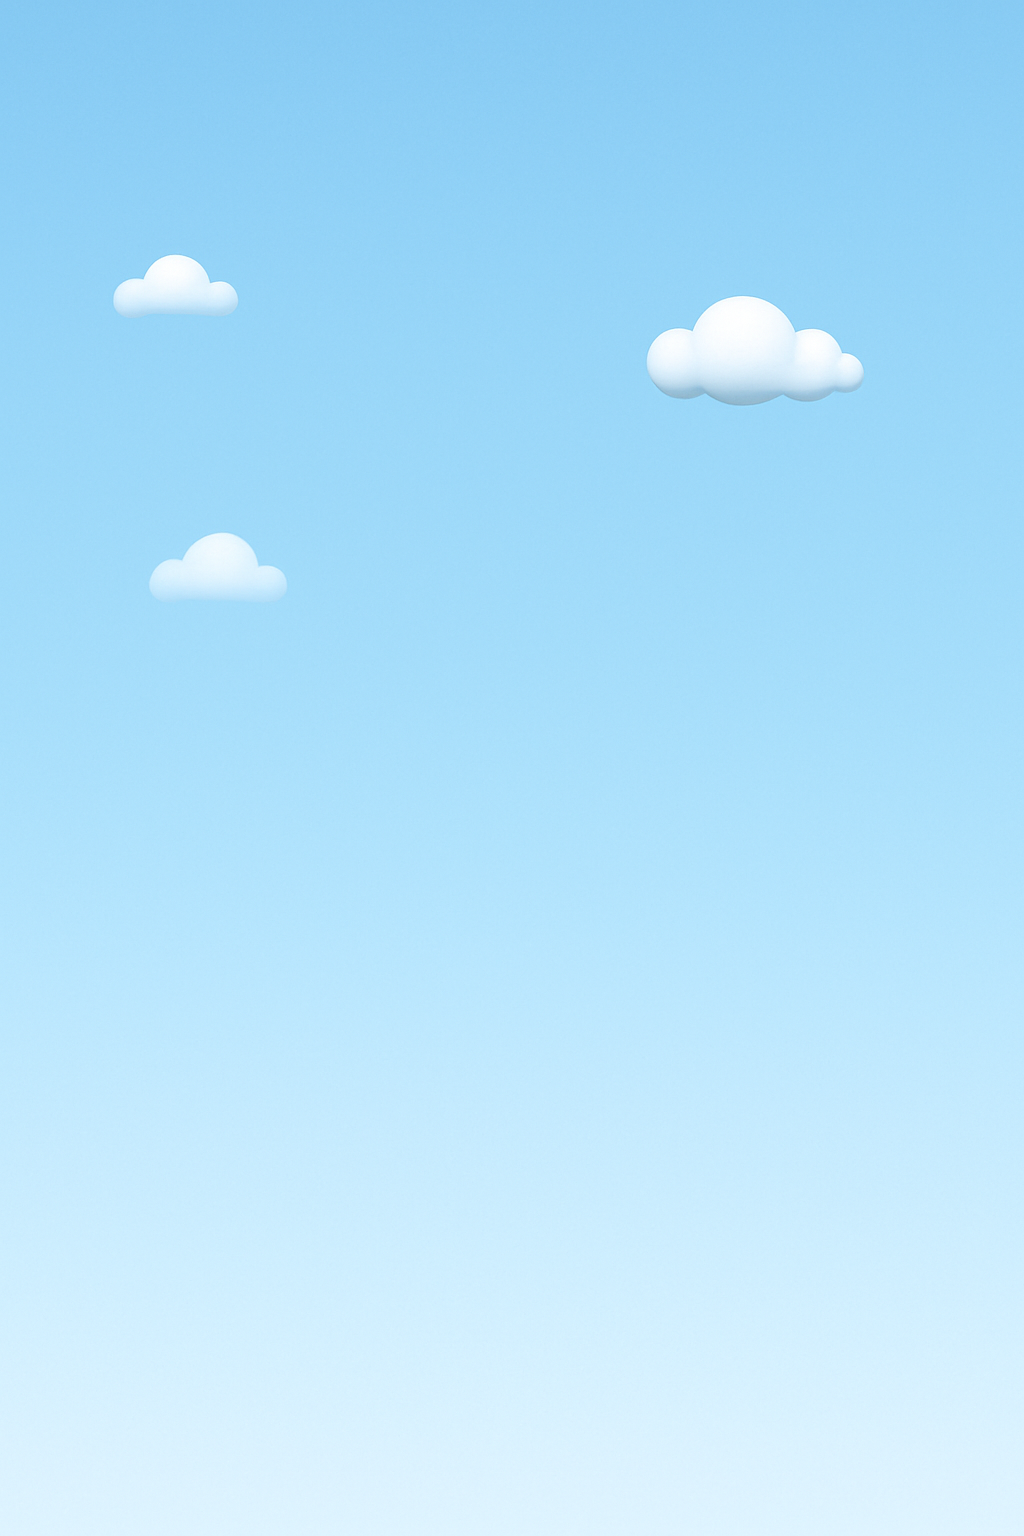
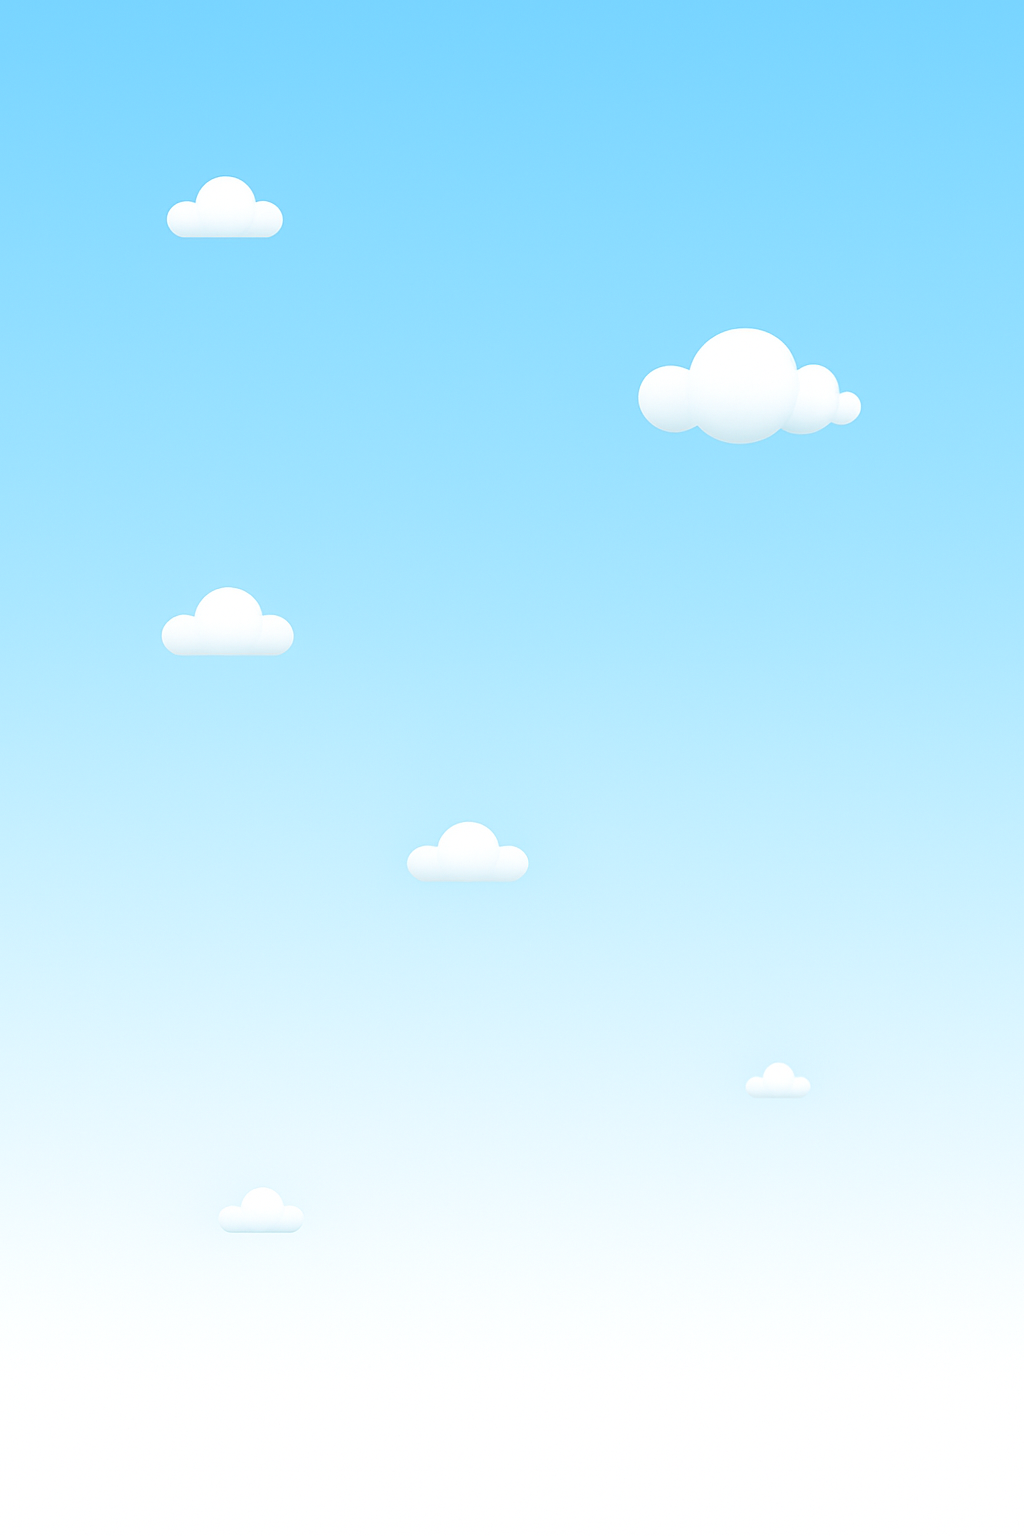
tab bar partial added and home bg gradient

diff --git a/app/(tabs)/_layout.jsx b/app/(tabs)/_layout.jsx
@@ -1,85 +1,107 @@
-import { Tabs } from "expo-router";
 import {FontAwesome ,FontAwesome5  } from "@expo/vector-icons";
-import { TouchableOpacity } from "react-native";
+import { Tabs } from "expo-router";
+import { StyleSheet,Text, View } from "react-native";
+import { LinearGradient } from "expo-linear-gradient";
 
-const HomeLayout = () => {
-  return (
-    <Tabs
-      screenOptions={{
-        tabBarShowLabel: false,
 
-        // 🔹 Remove Android ripple & iOS opacity
-        tabBarPressColor: "transparent",
-        tabBarButton: (props) => (
-          <TouchableOpacity
-            {...props}
-            activeOpacity={1}
-            android_ripple={{ color: "transparent" }}
-          />
-        ),
+function TabIcon({ focused, icon, title }: any) {
+    if (focused) {
+        return (
+            <View className=" bg-blue-400  justify-center items-center mt-4 rounded-lg w-20 h-10">
 
-        tabBarItemStyle: {
-          display: "flex",
-          justifyContent: "center",
-          alignItems: "center",
-          padding: 10,
-        },
-        tabBarStyle: {
-          borderRadius: 10,
-          marginHorizontal: 30,
-          marginBottom: 45,
-          height: 10,
-          position: "absolute",
-          overflow: "hidden",
-          borderWidth: 2,
-          display: "flex",
-          justifyContent: "center",
-          alignItems: "center",
-        },
-      }}
-    >
-      <Tabs.Screen
-        name="index"
-        options={{
-          headerShown: false,
-          title: "Home",
-          tabBarIcon: ({ color }) => (
-            <FontAwesome name="home" color={color} size={24} />
-          ),
-        }}
-      />
-      <Tabs.Screen
-        name="explore"
-        options={{
-          headerShown: false,
-          title: "Search",
-          tabBarIcon: ({ color }) => (
-            <FontAwesome name="compass" color={color} size={24} />
-          ),
-        }}
-      />
-      <Tabs.Screen
-        name="wishlist"
-        options={{
-          headerShown: false,
-          title: "Create",
-          tabBarIcon: ({ color }) => (
-           <FontAwesome5 name="map-marker-alt" size={23} color={color} />
-          ),
-        }}
-      />
-      <Tabs.Screen
-        name="profile"
-        options={{
-          headerShown: false,
-          title: "My Profile",
-          tabBarIcon: ({ color }) => (
-            <FontAwesome name="user-circle" size={24} color={color} />
-          ),
-        }}
-      />
-    </Tabs>
-  );
-};
+                <FontAwesome5 name={icon} size={24} color="white" />
+            </View>
+                
+        );
+    }
 
-export default HomeLayout;
+    return (
+        <View className="size-full justify-center items-center mt-4 rounded-full">
+            <FontAwesome5 name={icon} size={24} color="#acd9f6" />
+        </View>
+    );
+}
+
+export default function TabsLayout() {
+    return (
+        <Tabs
+            screenOptions={{
+                tabBarShowLabel: false,
+                tabBarItemStyle: {
+                    width: "100%",
+                    height: "100%",
+                    justifyContent: "center",
+                    alignItems: "center",
+                },
+                tabBarStyle: {
+                    backgroundColor: "#ffffff",
+                    borderRadius: 10,
+                    marginHorizontal: 20,
+                    marginBottom: 36,
+                    height: 52,
+                    position: "absolute",
+                    overflow: "hidden",
+                    borderWidth: 1,
+                    //borderColor: "#0F0D23",
+                },
+            }}
+        >
+            <Tabs.Screen
+                name="index"
+                options={{
+                    title: "index",
+                    headerShown: false,
+                    tabBarIcon: ({ focused }) => (
+                        <TabIcon focused={focused} icon={"home"} title="Home" />
+                    ),
+                }}
+            />
+
+            <Tabs.Screen
+                name="explore"
+                options={{
+                    title: "explore",
+                    headerShown: false,
+                    tabBarIcon: ({ focused }) => (
+                        <TabIcon focused={focused} icon={"compass"} title="Search" />
+                    ),
+                }}
+            />
+
+            <Tabs.Screen
+                name="wishlist"
+                options={{
+                    title: "wishlist",
+                    headerShown: false,
+                    tabBarIcon: ({ focused }) => (
+                        <TabIcon focused={focused} icon={"map-marker-alt"} title="Save" />
+                    ),
+                }}
+            />
+
+            <Tabs.Screen
+                name="profile"
+                options={{
+                    title: "Profile",
+                    headerShown: false,
+                    tabBarIcon: ({ focused }) => (
+                        <TabIcon focused={focused} icon={"user-circle"} title="Profile" />
+                    ),
+                }}
+            />
+        </Tabs>
+    );
+}
+
+const styles = StyleSheet.create({
+    container: {
+        flex: 1, // Full screen
+        justifyContent: "center",
+        alignItems: "center",
+    },
+    text: {
+        fontSize: 20,
+        color: "#fff",
+        fontWeight: "bold",
+    },
+})

diff --git a/app/(tabs)/index.jsx b/app/(tabs)/index.jsx
@@ -1,14 +1,40 @@
-import { View, Text } from 'react-native'
+import { Dimensions,Image, View, Text, ScrollView, ImageBackground ,StyleSheet} from 'react-native'
 import React from 'react'
 import { SafeAreaView } from 'react-native-safe-area-context'
+import images from "@/constants/images";
+import { LinearGradient } from "expo-linear-gradient";
 
 
 const index = () => {
   return (
-    <SafeAreaView>
-      <Text>index</Text>
-    </SafeAreaView>
+    // <View className="bg-white h-full">
+    //   <ScrollView contentContainerClassName="h-full " style={{height: Dimensions.get('screen').height/2.25}} >
+    //     <ImageBackground source={images.background} className="size-full rounded-b-lg h-[30%]" resizeMode="cover"/>
+
+    //     </ScrollView>
+    //     </View>
+    <LinearGradient
+      colors={["#acd9f6", "#ffffff"]} // Blue to white
+      start={{ x: 1, y: 0 }}
+      end={{ x: 1, y: 0.35 }}
+      style={styles.container}
+    >
+      
+    </LinearGradient>
   )
 }
 
 export default index
+
+const styles = StyleSheet.create({
+  container: {
+    flex: 1, // Full screen
+    justifyContent: "center",
+    alignItems: "center",
+  },
+  text: {
+    fontSize: 20,
+    color: "#fff",
+    fontWeight: "bold",
+  },
+})

diff --git a/images.d.ts b/images.d.ts
@@ -1,0 +1,24 @@
+declare module "*.png" {
+    const value: any;
+    export default value;
+}
+
+declare module "*.jpg" {
+    const value: any;
+    export default value;
+}
+
+declare module "*.jpeg" {
+    const value: any;
+    export default value;
+}
+
+declare module "*.gif" {
+    const value: any;
+    export default value;
+}
+
+declare module "*.svg" {
+    const value: any;
+    export default value;
+}

diff --git a/constants/images.ts b/constants/images.ts
@@ -1,0 +1,4 @@
+import background from "@/assets/images/background.png";
+export default {
+    background
+}
